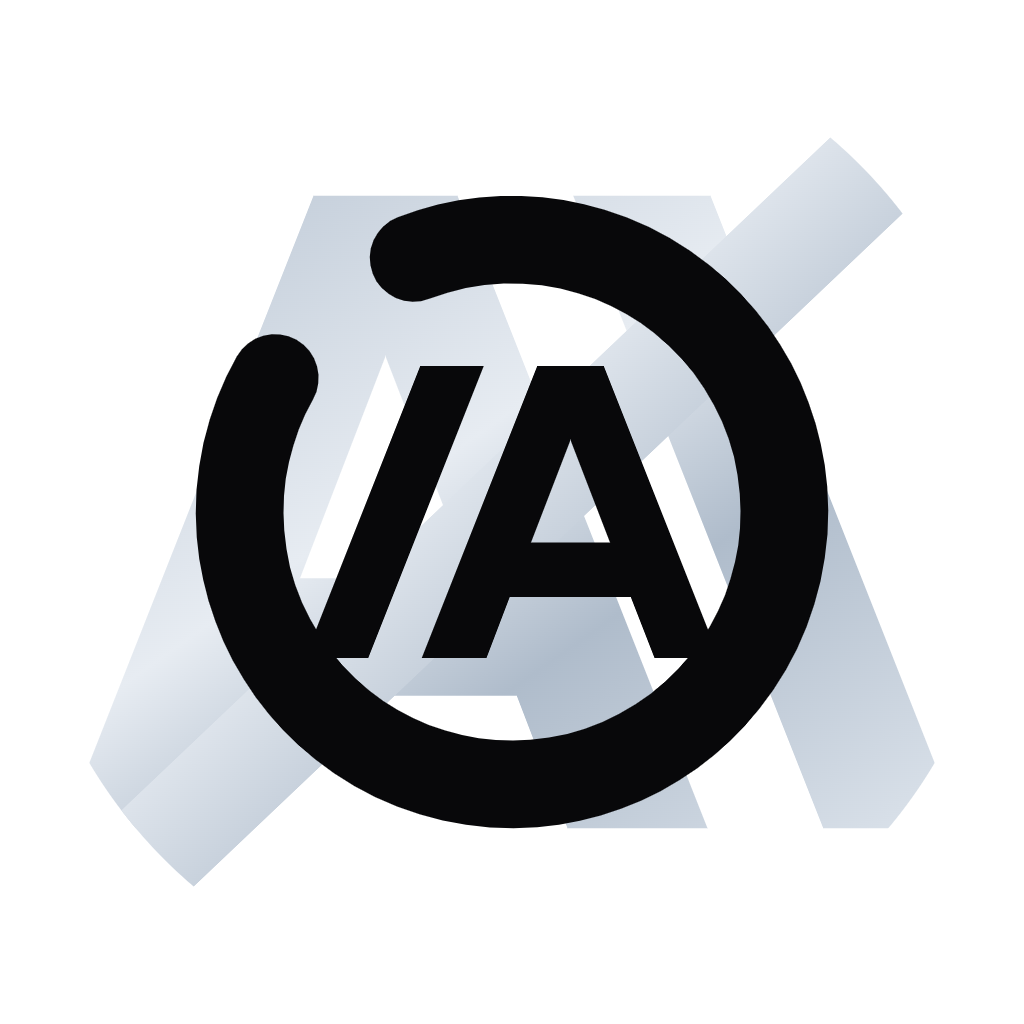
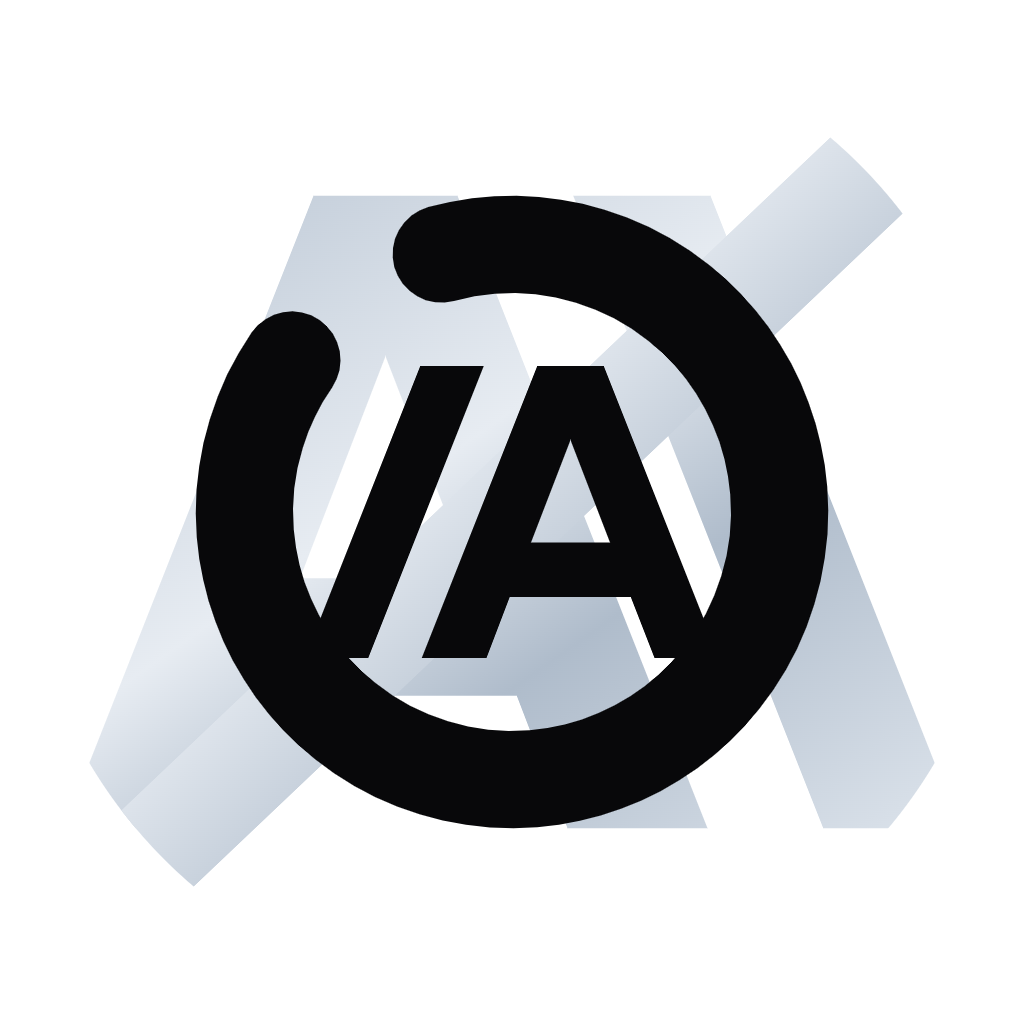
Restore thicker Ouroboros snake

diff --git a/glasswing/index.html b/glasswing/index.html
@@ -225,7 +225,7 @@
       </div>
       <a class="gw-card" href="platform/index.html" aria-label="Open the Glasswing platform">
         <span class="gw-card-flash" aria-hidden="true"></span>
-        <img src="../assets/brand/oa-circle.svg?v=7" width="1000" height="1000" alt="Oroboros / Anthropic mark">
+        <img src="../assets/brand/oa-circle.svg?v=8" width="1000" height="1000" alt="Oroboros / Anthropic mark">
         <span class="gw-card-cap">Public portal · A—01</span>
       </a>
     </div>
